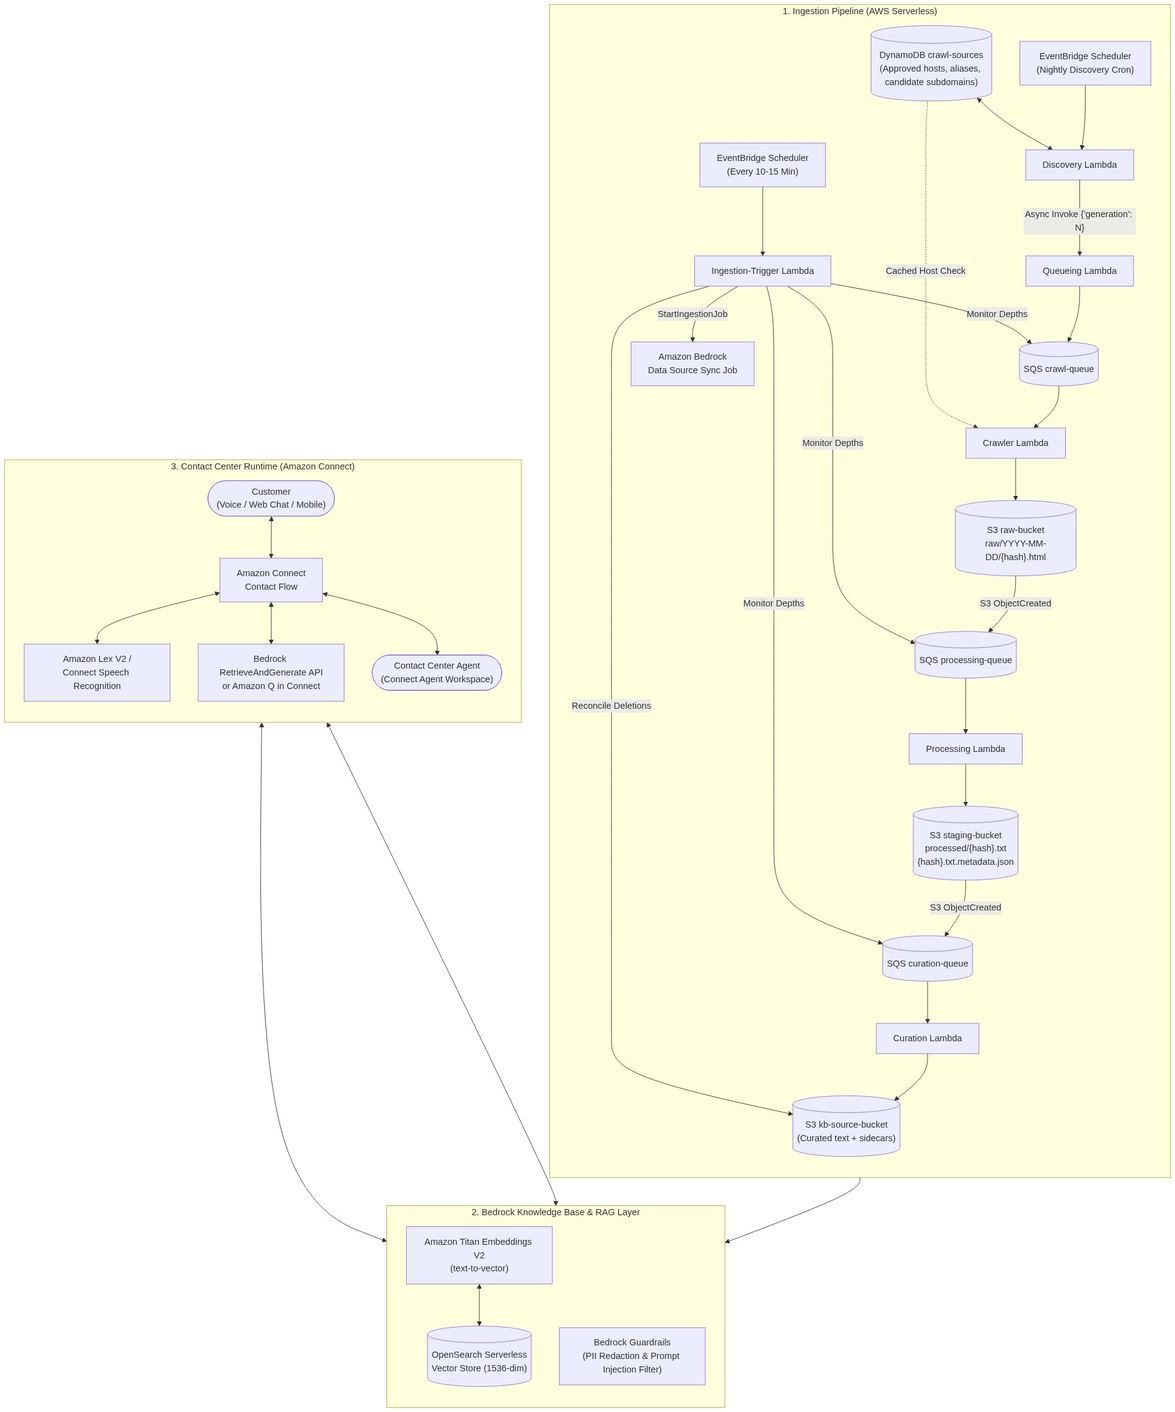
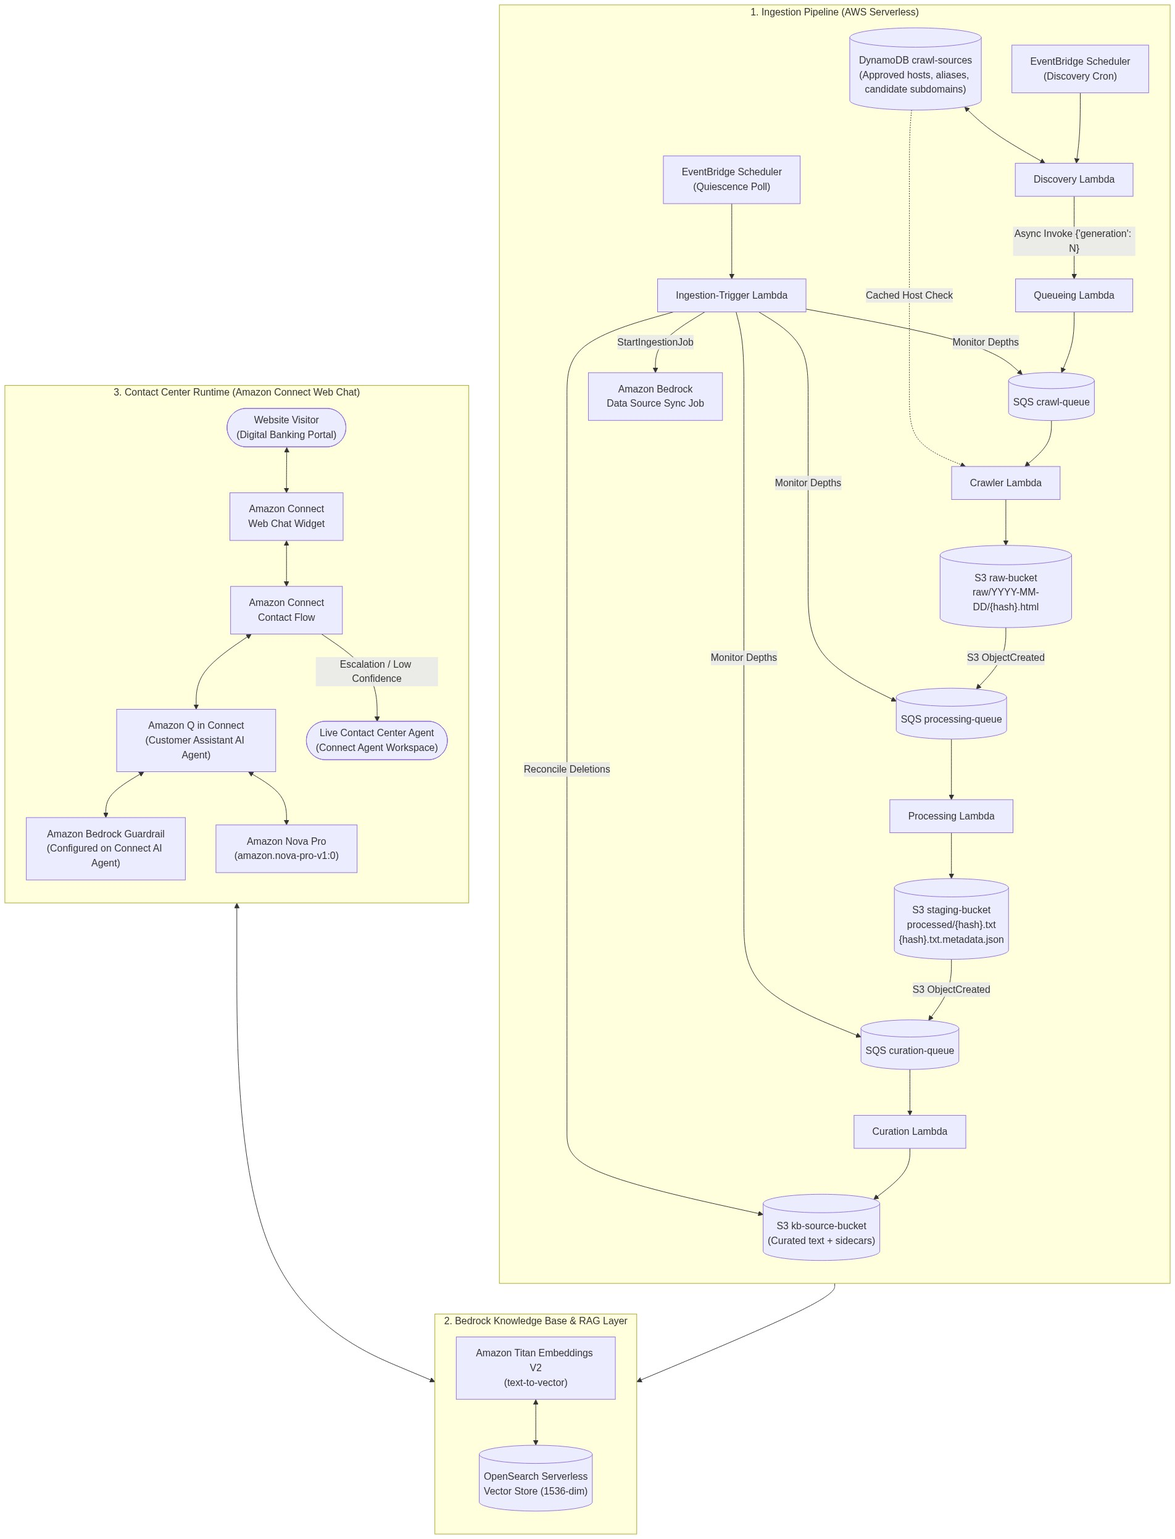
docs: update LLD to v2.1 (text-based web chatbot, Amazon Q in Connect intent, Amazon Nova Pro, Connect-side guardrails, remove voice)

diff --git a/LLD_DOCUMENT.md b/LLD_DOCUMENT.md
@@ -1,6 +1,6 @@
 # Low-Level Design (LLD): Custom Web Crawler to Amazon Bedrock Knowledge Base & Amazon Connect AI Agent
 
-**Document Version:** 2.0  
+**Document Version:** 2.1  
 **Status:** Approved / Production-Ready  
 **Target Platform:** Amazon Web Services (AWS)  
 **Author:** Engineering Team  
@@ -12,10 +12,10 @@
 
 This Low-Level Design (LLD) document details the architecture, component specifications, data schemas, algorithmic logic, and integration patterns for an enterprise-grade web content crawler and generative RAG (Retrieval-Augmented Generation) pipeline.
 
-The solution automatically discovers, crawls, sanitizes, curates, and synchronizes authoritative banking website content into **Amazon Bedrock Knowledge Bases**. The synchronized knowledge is subsequently served in real-time to customers and contact center agents through **Amazon Connect AI Agents** across voice and digital channels (Web Chat, Mobile App, WhatsApp).
+The solution automatically discovers, crawls, sanitizes, curates, and synchronizes authoritative banking website content into **Amazon Bedrock Knowledge Bases**. The synchronized knowledge is subsequently served in real-time to website visitors through an **Amazon Connect AI Agent** powering an interactive, text-based **Web Chat Widget** embedded on the bank's digital portals.
 
 ### Primary Objectives
-1. **Accurate, Grounded Self-Service**: Enable the Amazon Connect AI Agent to answer customer queries (fixed deposit rates, loan criteria, service charges, digital banking guidelines) with zero hallucinations, backed by verifiable `sourceUrl` citations.
+1. **Accurate, Grounded Digital Self-Service**: Enable the text-based Amazon Connect AI Agent to answer customer queries (fixed deposit rates, mortgage eligibility, fee matrices, online banking instructions) with zero hallucinations, backed by verifiable, clickable `sourceUrl` citations.
 2. **Financial Table Integrity**: Preserve tabular data relationships (interest rate slabs, tenure matrix) via HTML-to-Markdown conversion so Bedrock semantic chunking retains table structures intact.
 3. **Multi-Stage Defense-in-Depth Curation & Scoping**:
    * **Domain & Host Governance**: Multi-host discovery via `crawl-sources` DynamoDB table; unvetted subdomains discovered on the site are registered as disabled candidates for human review.
@@ -25,7 +25,7 @@ The solution automatically discovers, crawls, sanitizes, curates, and synchroniz
    * Stale/deleted URLs are excluded at queueing time by generation filtering (`lastSeenGeneration = generation`).
    * A 30% drop sanity check and completeness guard prevent incomplete discovery passes from accidentally triggering Knowledge Base deletions.
    * Deleted URLs that reappear on the bank's site are automatically revived to `DISCOVERED` with cleared content hashes.
-5. **Seamless Omnichannel Integration**: Integrate with Amazon Connect using Amazon Q in Connect and native Bedrock `RetrieveAndGenerate` APIs within Amazon Connect Contact Flows.
+5. **Native Amazon Connect AI Agent Integration**: Seamless integration with **Amazon Q in Connect** using native intent resolution and **Amazon Nova Pro** for response generation, with Bedrock Guardrails configured directly on the Amazon Connect AI Agent.
 
 ---
 
@@ -36,7 +36,7 @@ flowchart TD
     subgraph INGESTION["1. Ingestion Pipeline (AWS Serverless)"]
         direction TB
         SOURCES[("DynamoDB crawl-sources<br/>(Approved hosts, aliases, candidate subdomains)")]
-        EB1["EventBridge Scheduler<br/>(Nightly Discovery Cron)"] --> L1["Discovery Lambda"]
+        EB1["EventBridge Scheduler<br/>(Discovery Cron)"] --> L1["Discovery Lambda"]
         SOURCES <--> L1
         L1 -- "Async Invoke {'generation': N}" --> L2["Queueing Lambda"]
         L2 --> Q1[("SQS crawl-queue")]
@@ -50,7 +50,7 @@ flowchart TD
         Q3 --> L5["Curation Lambda"]
         L5 --> S3_KB[("S3 kb-source-bucket<br/>(Curated text + sidecars)")]
         
-        EB2["EventBridge Scheduler<br/>(Every 10-15 Min)"] --> L6["Ingestion-Trigger Lambda"]
+        EB2["EventBridge Scheduler<br/>(Quiescence Poll)"] --> L6["Ingestion-Trigger Lambda"]
         L6 -- Monitor Depths --> Q1 & Q2 & Q3
         L6 -- Reconcile Deletions --> S3_KB
         L6 -- StartIngestionJob --> BEDROCK_SYNC["Amazon Bedrock<br/>Data Source Sync Job"]
@@ -60,17 +60,17 @@ flowchart TD
         direction TB
         BEDROCK_SYNC --> AOSS[("OpenSearch Serverless<br/>Vector Store (1536-dim)")]
         TITAN["Amazon Titan Embeddings V2<br/>(text-to-vector)"] <--> AOSS
-        GUARDRAILS["Bedrock Guardrails<br/>(PII Redaction & Prompt Injection Filter)"]
     end
 
-    subgraph CONNECT["3. Contact Center Runtime (Amazon Connect)"]
+    subgraph CONNECT["3. Contact Center Runtime (Amazon Connect Web Chat)"]
         direction TB
-        CUSTOMER(["Customer<br/>(Voice / Web Chat / Mobile)"]) <--> FLOW["Amazon Connect<br/>Contact Flow"]
-        FLOW <--> LEX["Amazon Lex V2 /<br/>Connect Speech Recognition"]
-        FLOW <--> RAG_CALL["Bedrock RetrieveAndGenerate API<br/>or Amazon Q in Connect"]
-        RAG_CALL <--> GUARDRAILS
-        RAG_CALL <--> AOSS
-        FLOW <--> AGENT(["Contact Center Agent<br/>(Connect Agent Workspace)"])
+        USER(["Website Visitor<br/>(Digital Banking Portal)"]) <--> WIDGET["Amazon Connect<br/>Web Chat Widget"]
+        WIDGET <--> FLOW["Amazon Connect<br/>Contact Flow"]
+        FLOW <--> Q_CONNECT["Amazon Q in Connect<br/>(Customer Assistant AI Agent)"]
+        Q_CONNECT <--> GUARDRAILS["Amazon Bedrock Guardrail<br/>(Configured on Connect AI Agent)"]
+        Q_CONNECT <--> AOSS
+        Q_CONNECT <--> NOVA["Amazon Nova Pro<br/>(amazon.nova-pro-v1:0)"]
+        FLOW -- Escalation / Low Confidence --> AGENT(["Live Contact Center Agent<br/>(Connect Agent Workspace)"])
     end
 ```
 
@@ -190,7 +190,7 @@ sequenceDiagram
     participant IT as Ingestion-Trigger Lambda
     participant B as Bedrock KB
 
-    EB->>D: Trigger nightly discovery (generation = N)
+    EB->>D: Trigger discovery run (generation = N)
     D->>CS: Load approved hosts, aliases & scan root page for candidate hosts
     D->>D: Resolve sitemaps (.xml or .xml.gz) & evaluate RFC 9309 robots.txt
     D->>D: Sanity Guard: Check URL count vs lastGoodUrlCount (<=30% drop)
@@ -232,7 +232,7 @@ sequenceDiagram
         U-->>U: Raise exception (SQS visibility retry)
     end
     
-    loop Every 10-15 Min
+    loop Every 5-15 Min
         EB->>IT: Run quiescence check
         IT->>IT: Check depths across 3 queues
         alt 2 Consecutive 0-Depth Checks & Cooldown Passed
@@ -245,7 +245,7 @@ sequenceDiagram
 ---
 
 ### 4.1. Discovery Lambda (`discovery_lambda.py`)
-* **Trigger**: EventBridge Scheduler (Nightly, e.g., `cron(0 1 * * ? *)`).
+* **Trigger**: EventBridge Scheduler (Configurable: Hourly or Nightly).
 * **Memory & Timeout**: 1024 MB, 15 minutes.
 * **Environment Variables**:
   * `STATE_TABLE_NAME` *(Required)*: DynamoDB pipeline-state table.
@@ -384,13 +384,13 @@ sequenceDiagram
 ---
 
 ### 4.6. Ingestion-Trigger Lambda (`ingestion_trigger_lambda.py`)
-* **Trigger**: EventBridge Scheduler (rate: every 10–15 minutes).
+* **Trigger**: EventBridge Scheduler (rate: every 5–15 minutes).
 * **Environment Variables**:
   * `MONITORED_QUEUE_URLS` *(Required)*: Comma-separated queue URLs (`crawl-queue`, `processing-queue`, `curation-queue`).
   * `STATE_TABLE_NAME`, `REGISTRY_TABLE_NAME`, `KB_SOURCE_BUCKET`, `KNOWLEDGE_BASE_ID`, `DATA_SOURCE_ID` *(Required)*.
   * `KB_SOURCE_REGION`, `BEDROCK_REGION` *(Optional)*: Regional endpoints for cross-region Bedrock/S3.
   * `REQUIRED_EMPTY_CHECKS` *(Optional, default 2)*: Consecutive 0-depth polls.
-  * `MIN_HOURS_BETWEEN_INGESTIONS` *(Optional, default 6)*: Minimum cooldown window.
+  * `MIN_HOURS_BETWEEN_INGESTIONS` *(Optional, default 1.0 or 6.0)*: Minimum cooldown window.
 * **Key Algorithmic Steps**:
   1. Inspect status of previous Bedrock ingestion job via `bedrock_agent.list_ingestion_jobs`; alert if `FAILED`.
   2. Inspect `pipelineStatus` in `pipeline-state`: if `DISCOVERING` or `QUEUEING`, exit immediately (unless running $>3$ hours).
@@ -412,9 +412,10 @@ sequenceDiagram
 ### 5.1. Vector Store & Embedding Model
 * **Vector Database**: Amazon OpenSearch Serverless (AOSS) Collection (Vector Search type).
 * **Vector Index Configuration**:
-  * Dimension: 1536 (or 1024 depending on model configuration).
+  * Dimension: 1536.
   * Metric: Cosine Similarity / HNSW (Hierarchical Navigable Small World).
 * **Embedding Model**: `amazon.titan-embed-text-v2` (supports normalized vector embeddings and multilingual text).
+* **Response Generation Foundation Model**: **Amazon Nova Pro** (`amazon.nova-pro-v1:0`), offering state-of-the-art accuracy, speed, reasoning, and cost efficiency for financial knowledge retrieval.
 
 ### 5.2. Chunking Strategy for Preserved Markdown
 * **Chunking Type**: Hierarchical Chunking or Semantic Chunking.
@@ -433,114 +434,91 @@ When Bedrock indexes `processed/{urlHash}.txt`, it automatically reads `processe
   }
 }
 ```
-* **Filterable Attributes**: In Amazon Connect or Bedrock API calls, queries can restrict search space using metadata filters (e.g., `sourceUrl` prefix or `pageTitle`).
+* **Filterable Attributes**: In Amazon Connect or Bedrock queries, the search space can be dynamically filtered using metadata attributes (e.g., `sourceUrl` prefix or `pageTitle`).
 
-### 5.4. Amazon Bedrock Guardrails
-* **Content Filters**: High threshold on Hate, Insults, Sexual, Violence.
-* **Prompt Injection Defense**: Filters adversarial prompt injections embedded in public web pages.
-* **Sensitive Information (PII) Redaction**: Automatically masks PAN numbers, credit card numbers, IBANs, and phone numbers in synthesized responses.
-* **Contextual Grounding Filter**: Rejects model output if grounding score against retrieved chunks is below 0.75 (prevents ungrounded answers).
+### 5.4. Amazon Bedrock Guardrail Enforcement
+To strictly satisfy banking compliance, **Amazon Bedrock Guardrails are applied directly on the Amazon Connect AI Agent side** (see Section 6).
+* **Input Filters**: Detect and block prompt injections, jailbreaks, and adversarial input attempts before Bedrock is queried.
+* **PII Redaction**: Automatically detects and masks sensitive identifiers (PAN numbers, credit card numbers, IBANs, national identity numbers, and contact numbers) from the generated answer before rendering in the chat widget.
+* **Contextual Grounding Filter**: Automatically validates the generated answer against retrieved reference chunks. If the confidence score is below 0.75, the answer is suppressed and routed to human agent escalation.
 
 ---
 
 ## 6. Amazon Connect AI Agent Integration Architecture
 
+The solution uses a **100% text-based Web Chatbot** embedded into the bank's digital website portals. It utilizes **native Amazon Q in Connect Intent & AI Agent** integration within Amazon Connect Contact Flows—**completely eliminating custom API middleware or `RetrieveAndGenerate` Lambda orchestration**.
+
 ```mermaid
-flowchart LR
-    subgraph CHANNELS["Inbound Channels"]
-        VOICE["PSTN Voice Call"]
-        CHAT["Web Chat / Mobile App"]
+flowchart TD
+    subgraph WEB["Digital Channel (Web Portal)"]
+        VISITOR(["Customer / Website Visitor"]) <--> WIDGET["Amazon Connect Web Chat Widget<br/>(Embedded JavaScript SDK)"]
     end
 
-    subgraph CONNECT_CORE["Amazon Connect Contact Flow"]
-        ENTRY["Customer Inbound Entry"]
-        AUTH["Customer Verification / IVR"]
-        ROUTER{"Route to AI Agent?"}
-        AI_BLOCK["Amazon Q in Connect /<br/>Bedrock RetrieveAndGenerate"]
-        AGENT_QUEUE["Transfer to Human Agent Queue"]
+    subgraph CONNECT["Amazon Connect Runtime"]
+        WIDGET <--> FLOW["Amazon Connect Contact Flow<br/>(Chat Messaging Session)"]
+        FLOW <--> Q_BLOCK["Q in Connect Intent Block<br/>(Check / Use Q in Connect)"]
+        FLOW -- "Escalation / Human Request" --> AGENT_QUEUE["Human Specialist Queue<br/>(Connect Agent Workspace)"]
     end
 
-    subgraph BEDROCK_RAG["Bedrock Generative AI"]
-        KB["Bedrock Knowledge Base<br/>(Authoritative Bank Data)"]
-        FM["Claude 3.5 Sonnet / Haiku<br/>(Generative Response)"]
-        GUARD["Bedrock Guardrails<br/>(Grounding & Compliance)"]
+    subgraph Q_AGENT["Amazon Q in Connect (AI Agent Layer)"]
+        Q_BLOCK <--> AI_AGENT["Customer Assistant AI Agent<br/>(Amazon Q in Connect)"]
+        AI_AGENT <--> GUARD["Amazon Bedrock Guardrail<br/>(Configured on Connect AI Agent)<br/>- PII Redaction & Content Filter<br/>- Grounding & Prompt Injection Check"]
     end
 
-    VOICE & CHAT --> ENTRY --> AUTH --> ROUTER
-    ROUTER -- Yes --> AI_BLOCK
-    ROUTER -- No / Escalation --> AGENT_QUEUE
-    AI_BLOCK <--> KB & FM & GUARD
-    AI_BLOCK -- Unresolved / Low Confidence --> AGENT_QUEUE
+    subgraph BEDROCK_AI["Amazon Bedrock Foundation Services"]
+        AI_AGENT -- "Semantic Retrieval" --> KB["Amazon Bedrock Knowledge Base<br/>(Curated Banking Documents)"]
+        AI_AGENT -- "Synthesize Response with Citations" --> NOVA["Amazon Nova Pro<br/>(amazon.nova-pro-v1:0)"]
+    end
 ```
 
-### 6.1. Integration Pattern A: Amazon Q in Connect (Native AI Agent Assistant)
-* Create an Amazon Q in Connect Assistant (`aiAgent`).
-* Associate Bedrock Knowledge Base ARN directly:
-  ```bash
-  aws qconnect create-content-association \
-    --assistant-id <connect-assistant-id> \
-    --association-type BEDROCK_KNOWLEDGE_BASE \
-    --association '{"bedrockKnowledgeBase": {"knowledgeBaseArn": "<bedrock-kb-arn>"}}'
-  ```
-* **Self-Service Mode**: Automated chat bot directly queries Knowledge Base and streams responses.
-* **Agent-Assist Mode**: During live voice calls, Contact Lens transcribes speech in real time, queries the Knowledge Base, and presents exact answer cards with verified citation links to human agents.
+### 6.1. Web Chat Integration Pattern
+1. **Frontend Embedding**:
+   * The bank's web portal embeds the **Amazon Connect In-App, Web, and Mobile Messaging JavaScript SDK** (Chat Widget).
+   * Website visitors click the chat widget icon, initiating an asynchronous encrypted WebSocket messaging session directly with Amazon Connect.
 
-### 6.2. Integration Pattern B: Direct Contact Flow via Bedrock `RetrieveAndGenerate` API
-Amazon Connect calls a lightweight Orchestrator Lambda or native Bedrock Contact Flow block.
+2. **Amazon Q in Connect Assistant Setup**:
+   * An Amazon Q in Connect Assistant is created and bound to the Amazon Connect Instance:
+     ```bash
+     aws qconnect create-assistant \
+       --name "banking-customer-ai-assistant" \
+       --type CUSTOMER_ASSISTANT
+     ```
+   * The Bedrock Knowledge Base is associated directly to the Assistant:
+     ```bash
+     aws qconnect create-content-association \
+       --assistant-id <connect-assistant-id> \
+       --association-type BEDROCK_KNOWLEDGE_BASE \
+       --association '{"bedrockKnowledgeBase": {"knowledgeBaseArn": "<bedrock-kb-arn>"}}'
+     ```
 
-```python
-import boto3
+3. **AI Agent Configuration with Amazon Nova Pro & Guardrails**:
+   * An AI Agent of type `CUSTOMER_ASSISTANT` is defined in Amazon Q in Connect:
+     ```json
+     {
+       "aiAgentType": "CUSTOMER_ASSISTANT",
+       "configuration": {
+         "customerAssistantAIAgentConfiguration": {
+           "knowledgeBaseAssociation": {
+             "knowledgeBaseId": "<bedrock-kb-id>"
+           },
+           "generationModelConfiguration": {
+             "modelArn": "arn:aws:bedrock:eu-central-1::foundation-model/amazon.nova-pro-v1:0"
+           },
+           "guardrailConfiguration": {
+             "guardrailId": "<bedrock-guardrail-id>",
+             "guardrailVersion": "1"
+           }
+         }
+       }
+     }
+     ```
+   * **Why on the Connect AI Agent side?** Configured directly on the AI Agent, the guardrail protects both the user query prompt *and* the synthesized output directly within Amazon Connect, preventing malicious input from reaching the models and guaranteeing that PII is masked before the payload returns to the chat widget.
 
-bedrock_runtime = boto3.client("bedrock-agent-runtime")
-
-def query_knowledge_base(customer_query, session_id=None):
-    request_params = {
-        "input": {"text": customer_query},
-        "retrieveAndGenerateConfiguration": {
-            "type": "KNOWLEDGE_BASE",
-            "knowledgeBaseConfiguration": {
-                "knowledgeBaseId": "KB_ID_FROM_INGESTION_TRIGGER",
-                "modelArn": "arn:aws:bedrock:eu-central-1::foundation-model/anthropic.claude-3-5-haiku-20241022-v1:0",
-                "generationConfiguration": {
-                    "promptTemplate": {
-                        "textPromptTemplate": (
-                            "You are a helpful customer service AI agent for the bank. "
-                            "Answer the customer's question strictly using the provided search results. "
-                            "If the search results do not contain the answer, say 'I apologize, but I do not "
-                            "have verified information on that topic. Let me connect you with a representative.' "
-                            "Never invent interest rates, penalty charges, or policy rules.\n\n"
-                            "Search Results:\n$search_results$\n\n"
-                            "Customer Question: $query$\n\nAnswer:"
-                        )
-                    },
-                    "guardrailConfiguration": {
-                        "guardrailId": "GUARDRAIL_ID",
-                        "guardrailVersion": "DRAFT"
-                    }
-                }
-            }
-        }
-    }
-    if session_id:
-        request_params["sessionId"] = session_id
-
-    response = bedrock_runtime.retrieve_and_generate(**request_params)
-    answer_text = response["output"]["text"]
-    citations = response.get("citations", [])
-    
-    sources = []
-    for c in citations:
-        for ref in c.get("retrievedReferences", []):
-            attrs = ref.get("metadata", {})
-            if "sourceUrl" in attrs:
-                sources.append(attrs["sourceUrl"])
-
-    return {
-        "answer": answer_text,
-        "sourceUrls": list(set(sources)),
-        "sessionId": response.get("sessionId")
-    }
-```
+4. **Contact Flow Orchestration**:
+   * When the customer submits a message in the widget, the Contact Flow routes the text through the native **"Check Q in Connect"** or **"Get customer input"** flow block.
+   * Q in Connect resolves the customer intent, searches the Bedrock Knowledge Base, executes the Guardrails, and synthesizes an authoritative answer using **Amazon Nova Pro**.
+   * The answer is streamed back as clean Markdown into the customer's chat widget, complete with clickable citations pointing back to the bank's official URLs.
+   * If the customer's query cannot be resolved, or if the customer types *"speak to agent"*, the Contact Flow executes the **Error / Escalation branch**, seamlessly transferring the chat session to a live human banking specialist in the **Amazon Connect Agent Workspace**.
 
 ---
 
@@ -548,13 +526,13 @@ def query_knowledge_base(customer_query, session_id=None):
 
 | Step # | Contact Flow Block | Execution Action | Fallback / Condition |
 | :---: | :--- | :--- | :--- |
-| **1** | **Set Voice & Logging** | Set text-to-speech engine to Amazon Polly Neural Voice. Turn on Contact Flow logging. | Next |
-| **2** | **Get Customer Input** | Prompt: *"How can I help you today?"* Captured via Amazon Lex V2 Intent or natural language speech input. | 3 invalid attempts $\rightarrow$ Transfer to Human Agent |
-| **3** | **Invoke AI Agent** | Passes customer utterance to Bedrock `RetrieveAndGenerate` API with session context. | Timeout ($> 3000\text{ms}$) $\rightarrow$ Step 7 |
-| **4** | **Evaluate Grounding** | Checks if Bedrock Guardrails intervened or if the response returned unverified notice. | Not grounded $\rightarrow$ Step 7 |
-| **5** | **Deliver Response** | **Voice**: Plays synthesized audio response.<br>**Chat**: Displays Markdown answer and appends verified citation links: `[Official Page](sourceUrl)`. | Next |
-| **6** | **Check Resolution** | Prompt: *"Did that answer your question?"* If Yes $\rightarrow$ Disconnect; If No $\rightarrow$ Step 7. | Customer dissatisfied $\rightarrow$ Step 7 |
-| **7** | **Transfer to Queue** | Set contact attributes (`lastCustomerIntent`, `bedrockQuery`, `aiResponseSnippet`). Transfer call to specialist queue with screen-pop for agent. | Queue Full $\rightarrow$ Voicemail / Callback |
+| **1** | **Initialize Chat & Logging** | Initialize chat session attributes. Enable Amazon Connect Contact Flow logging and CloudWatch Metrics. | Next |
+| **2** | **Display Welcome Prompt** | Send interactive greeting to the chat widget: *"Welcome to Bank Digital Assistant. How can I assist you with loans, accounts, or deposits today?"* | Timeout $\rightarrow$ Terminate |
+| **3** | **Check Q in Connect** | Customer message is evaluated via Amazon Q in Connect intent resolution against the associated `CUSTOMER_ASSISTANT` AI Agent. | No intent / unrecognized $\rightarrow$ Step 7 |
+| **4** | **Evaluate Guardrail & Synthesis** | Connect AI Agent validates query against **Bedrock Guardrail** $\rightarrow$ retrieves chunks from Bedrock KB $\rightarrow$ synthesizes answer using **Amazon Nova Pro** $\rightarrow$ verifies grounding $\ge 0.75$ and redacts PII. | Guardrail Violation / Ungrounded $\rightarrow$ Step 7 |
+| **5** | **Deliver Chat Response** | Streams formatted Markdown answer into the chat widget, appending verified citation pills: `[Official Page: https://www.bankofireland.com/...]`. | Next |
+| **6** | **Check Resolution** | Prompt quick-reply buttons in chat widget: *"Was this helpful? [Yes] [No - Need Agent]"*. If Yes $\rightarrow$ Loop to Step 3 for next question; If No $\rightarrow$ Step 7. | Customer requests agent $\rightarrow$ Step 7 |
+| **7** | **Transfer to Human Queue** | Attach contact attributes (`chatSummary`, `customerQuery`, `lastIntent`). Transfer the active chat session to `Digital-Banking-Support-Queue` with screen-pop for live agent. | Queue Full $\rightarrow$ Offer Call-Back / Message Form |
 
 ---
 
@@ -569,6 +547,7 @@ def query_knowledge_base(customer_query, session_id=None):
    * S3 Buckets: SSE-KMS with customer-managed keys (CMK) and bucket policies enforcing `aws:SecureTransport: true` (TLS 1.3).
    * DynamoDB: Encrypted at rest using AWS KMS.
    * OpenSearch Serverless: Enforced encryption at rest and in transit.
+   * Web Chat Session: End-to-end encrypted WebSockets (WSS) and TLS 1.3.
 3. **Data Residency & Cross-Region Support**:
    * Knowledge Base in `eu-central-1` (Frankfurt) or primary region; automatic regional client routing and streaming fallback in `curation_lambda` and `ingestion_trigger_lambda`.
 4. **Administrative Controls & Governance**:
@@ -584,10 +563,11 @@ def query_knowledge_base(customer_query, session_id=None):
 * **Incomplete Discovery Alarm**: Metric filter targeting `DISCOVERY_INCOMPLETE` or `DISCOVERY_HOST_FAILED`.
 * **Queueing Mismatch Alarm**: Metric filter targeting `QUEUEING_NO_MATCH` (warns if GSI projection is not `ALL`).
 * **Bedrock Ingestion Failure Alarm**: EventBridge rule on Bedrock Ingestion Job status `FAILED` targeting DevOps team.
+* **Chatbot Escalation Rate Alarm**: CloudWatch metric tracking high transfers from AI Agent to Live Agent queue.
 
 ### 9.2. Key CloudWatch Insights Queries
 
-#### Trace a Specific URL Across All Lambdas
+#### Trace a Specific URL Across All Ingestion Lambdas
 ```sql
 fields @timestamp, @logStream, @message
 | filter @message like /bankofireland.com\/personal-banking/ or @message like /e3b0c44298fc1c/
